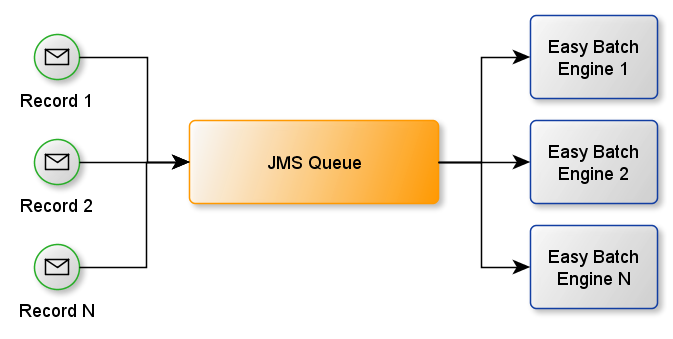
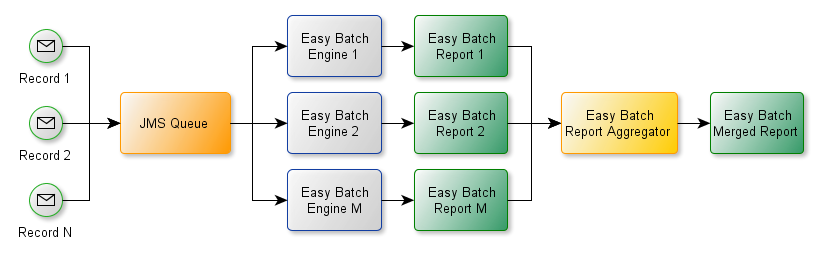
update jms tutorial: - add a method to stop the broker at the end of execution - add a usage sample of the report aggregator api

diff --git a/site/tutorials/jms.html b/site/tutorials/jms.html
@@ -114,17 +114,18 @@
 <div class="row-fluid">
 
 <h2 id="1">1. Description</h2>
-<p>In this tutorial, we will see how to use Easy Batch to asynchronously process data from a JMS queue:</p>
+<p>In this tutorial, we will see how to use Easy Batch to asynchronously process data in parallel from a JMS queue:</p>
 
 <p align="center"><img src="../resources/img/jms.png"/></p>
 
+<p>We will also show how to use the <code>EasyBatchReportsAggregator</code> API to merge partial reports into a global and final one.</p>
 <p>We will create a custom record reader that pulls data from the JMS queue. To distribute the work, messages posted to the queue will be processed by several Easy Batch engines.
     We will use the same resources as in the <a href="./helloworldCSV.html" target="_blank">Hello World tutorial</a> (greetings CSV data and <code>Greeting</code> POJO) to create the application:</p>
 
 <div>
     <div class="span6">
 <pre class="prettyprint">
-sequence,name
+id,name
 1,foo
 2,bar
 3,bax
@@ -135,7 +136,7 @@ sequence,name
 
 <pre class="prettyprint">
 public class Greeting {
-    private long sequence;
+    private int id;
     private String name;
     //Getters and setters omitted
 }
@@ -143,7 +144,10 @@ public class Greeting {
     </div>
 </div>
 
-<p>Let's get started!</p>
+<p>As in the <a href="./helloworldCSV.html" target="_blank">Hello World tutorial</a>, the goal is to simply write a greeting message to the console for each CSV record.
+    We will use the same <code>GreetingProcessor</code> in this tutorial.</p>
+
+<p>So let's get started!</p>
 
 <h2 id="2">2. Implementation using Easy Batch</h2>
 
@@ -252,17 +256,30 @@ public class Launcher {
         //create a 2 threads pool to call Easy Batch engines in parallel
         ExecutorService executorService = Executors.newFixedThreadPool(2);
 
-        executorService.submit(easyBatchEngine1);
-        executorService.submit(easyBatchEngine2);
+        Future&lt;EasyBatchReport&gt; batchReportFuture1 = executorService.submit(easyBatchEngine1);
+        Future&lt;EasyBatchReport&gt; batchReportFuture2 = executorService.submit(easyBatchEngine2);
 
+        //wait for easy batch instances termination and get partial reports
+        EasyBatchReport easyBatchReport1 = batchReportFuture1.get();
+        EasyBatchReport easyBatchReport2 = batchReportFuture2.get();
+
+        //aggregate partial reports into a global one
+        EasyBatchReportsAggregator reportsAggregator = new DefaultEasyBatchReportsAggregator();
+        EasyBatchReport finalReport = reportsAggregator.aggregateReports(easyBatchReport1, easyBatchReport2);
+        System.out.println(finalReport);
+
+        //shutdown executor service
         executorService.shutdown();
+
+        //stop embedded JMS broker
+        JMSUtil.stopBroker();
 
     }
 
     public static EasyBatchEngine buildEasyBatchEngine(int id) {
         return new EasyBatchEngineBuilder()
                 .registerRecordReader(new GreetingJmsReader(id))
-                .registerRecordMapper(new DelimitedRecordMapper(Greeting.class, new String[]{"sequence","name"}))
+                .registerRecordMapper(new DelimitedRecordMapper(Greeting.class, new String[]{"id","name"}))
                 .registerRecordProcessor(new GreetingSlowProcessor())
                 .build();
     }
@@ -270,7 +287,8 @@ public class Launcher {
 }
 </pre>
 
-<p>To keep the tutorial simple, we will use an embedded message broker. The broker setup details are not shown here for readability sake.</p>
+<p>To keep the tutorial simple, we have used an embedded message broker. The broker setup details are not shown here for readability sake.</p>
+<p>To launch Easy Batch instances in parallel, we have used a <code>java.util.concurrent.ExecutorService</code> with a thread pool of 2 workers.</p>
 
 <p>To send greetings records as JMS messages to the queue, we will use the following utility class:</p>
 
@@ -330,12 +348,13 @@ Message '2,bar' sent to JMS queue
 <pre class="prettyprint">
 INFO: Initializing easy batch engine
 INFO: Data source: JMS queue: q
+INFO: Strict mode: false
 INFO: Total records = N/A
 INFO: easy batch engine is running...
 Greeting Reader 2 : received JMS message: 1,foo
-Hi foo! Your sequence number is 1
+Hi foo! Your id number is 1
 Greeting Reader 1 : received JMS message: 2,bar
-Hi bar! Your sequence number is 2
+Hi bar! Your id number is 2
 </pre>
     </div>
 </div>
@@ -345,6 +364,7 @@ Hi bar! Your sequence number is 2
 <p>We have implemented a custom record reader that reads data from a JMS queue. To distribute the work across multiple Easy Batch instances, we have used
 a thread pool through the <code>ExecutorService</code> and submitted Easy Batch instances to it. This tutorial shows a powerful technique to distribute data processing
     across multiple Easy Batch "workers" asynchronously.</p>
+<p>Finally, we have also seen how to use the <code>EasyBatchReportsAggregator</code> API to merge partial reports into a global one.</p>
 
 </div>
 

diff --git a/easybatch-tutorials/src/main/java/io/github/benas/easybatch/tutorials/jms/Launcher.java b/easybatch-tutorials/src/main/java/io/github/benas/easybatch/tutorials/jms/Launcher.java
@@ -28,6 +28,8 @@ import io.github.benas.easybatch.core.api.EasyBatchReport;
 import io.github.benas.easybatch.core.impl.EasyBatchEngine;
 import io.github.benas.easybatch.core.impl.EasyBatchEngineBuilder;
 import io.github.benas.easybatch.flatfile.dsv.DelimitedRecordMapper;
+import io.github.benas.easybatch.tools.reporting.DefaultEasyBatchReportsAggregator;
+import io.github.benas.easybatch.tools.reporting.EasyBatchReportsAggregator;
 import io.github.benas.easybatch.tutorials.common.Greeting;
 import io.github.benas.easybatch.tutorials.jmx.GreetingSlowProcessor;
 
@@ -54,10 +56,23 @@ public class Launcher {
         //create a 2 threads pool to call Easy Batch engines in parallel
         ExecutorService executorService = Executors.newFixedThreadPool(2);
 
-        executorService.submit(easyBatchEngine1);
-        executorService.submit(easyBatchEngine2);
+        Future<EasyBatchReport> batchReportFuture1 = executorService.submit(easyBatchEngine1);
+        Future<EasyBatchReport> batchReportFuture2 = executorService.submit(easyBatchEngine2);
 
+        //wait for easy batch instances termination and get partial reports
+        EasyBatchReport easyBatchReport1 = batchReportFuture1.get();
+        EasyBatchReport easyBatchReport2 = batchReportFuture2.get();
+
+        //aggregate partial reports into a global one
+        EasyBatchReportsAggregator reportsAggregator = new DefaultEasyBatchReportsAggregator();
+        EasyBatchReport finalReport = reportsAggregator.aggregateReports(easyBatchReport1, easyBatchReport2);
+        System.out.println(finalReport);
+
+        //shutdown executor service
         executorService.shutdown();
+
+        //stop embedded JMS broker
+        JMSUtil.stopBroker();
 
     }
 

diff --git a/easybatch-tutorials/src/main/java/io/github/benas/easybatch/tutorials/jms/JMSUtil.java b/easybatch-tutorials/src/main/java/io/github/benas/easybatch/tutorials/jms/JMSUtil.java
@@ -18,6 +18,8 @@ public class JMSUtil {
 
     private static QueueConnection queueConnection;
 
+    private static BrokerService broker;
+
     public static void initJMSFactory() throws Exception {
 
         Properties p = new Properties();
@@ -35,7 +37,7 @@ public class JMSUtil {
     }
 
     public static void startBroker() throws Exception {
-        BrokerService broker = new BrokerService();
+        broker = new BrokerService();
         broker.addConnector("tcp://localhost:61616");
         broker.start();
         initJMSFactory();
@@ -52,6 +54,13 @@ public class JMSUtil {
         queueConnection.close();
         queueSender.close();
         queueSession.close();
+    }
+
+    public static void stopBroker() throws Exception {
+        queueConnection.close();
+        queueSender.close();
+        queueSession.close();
+        broker.stop();
     }
 
 }
